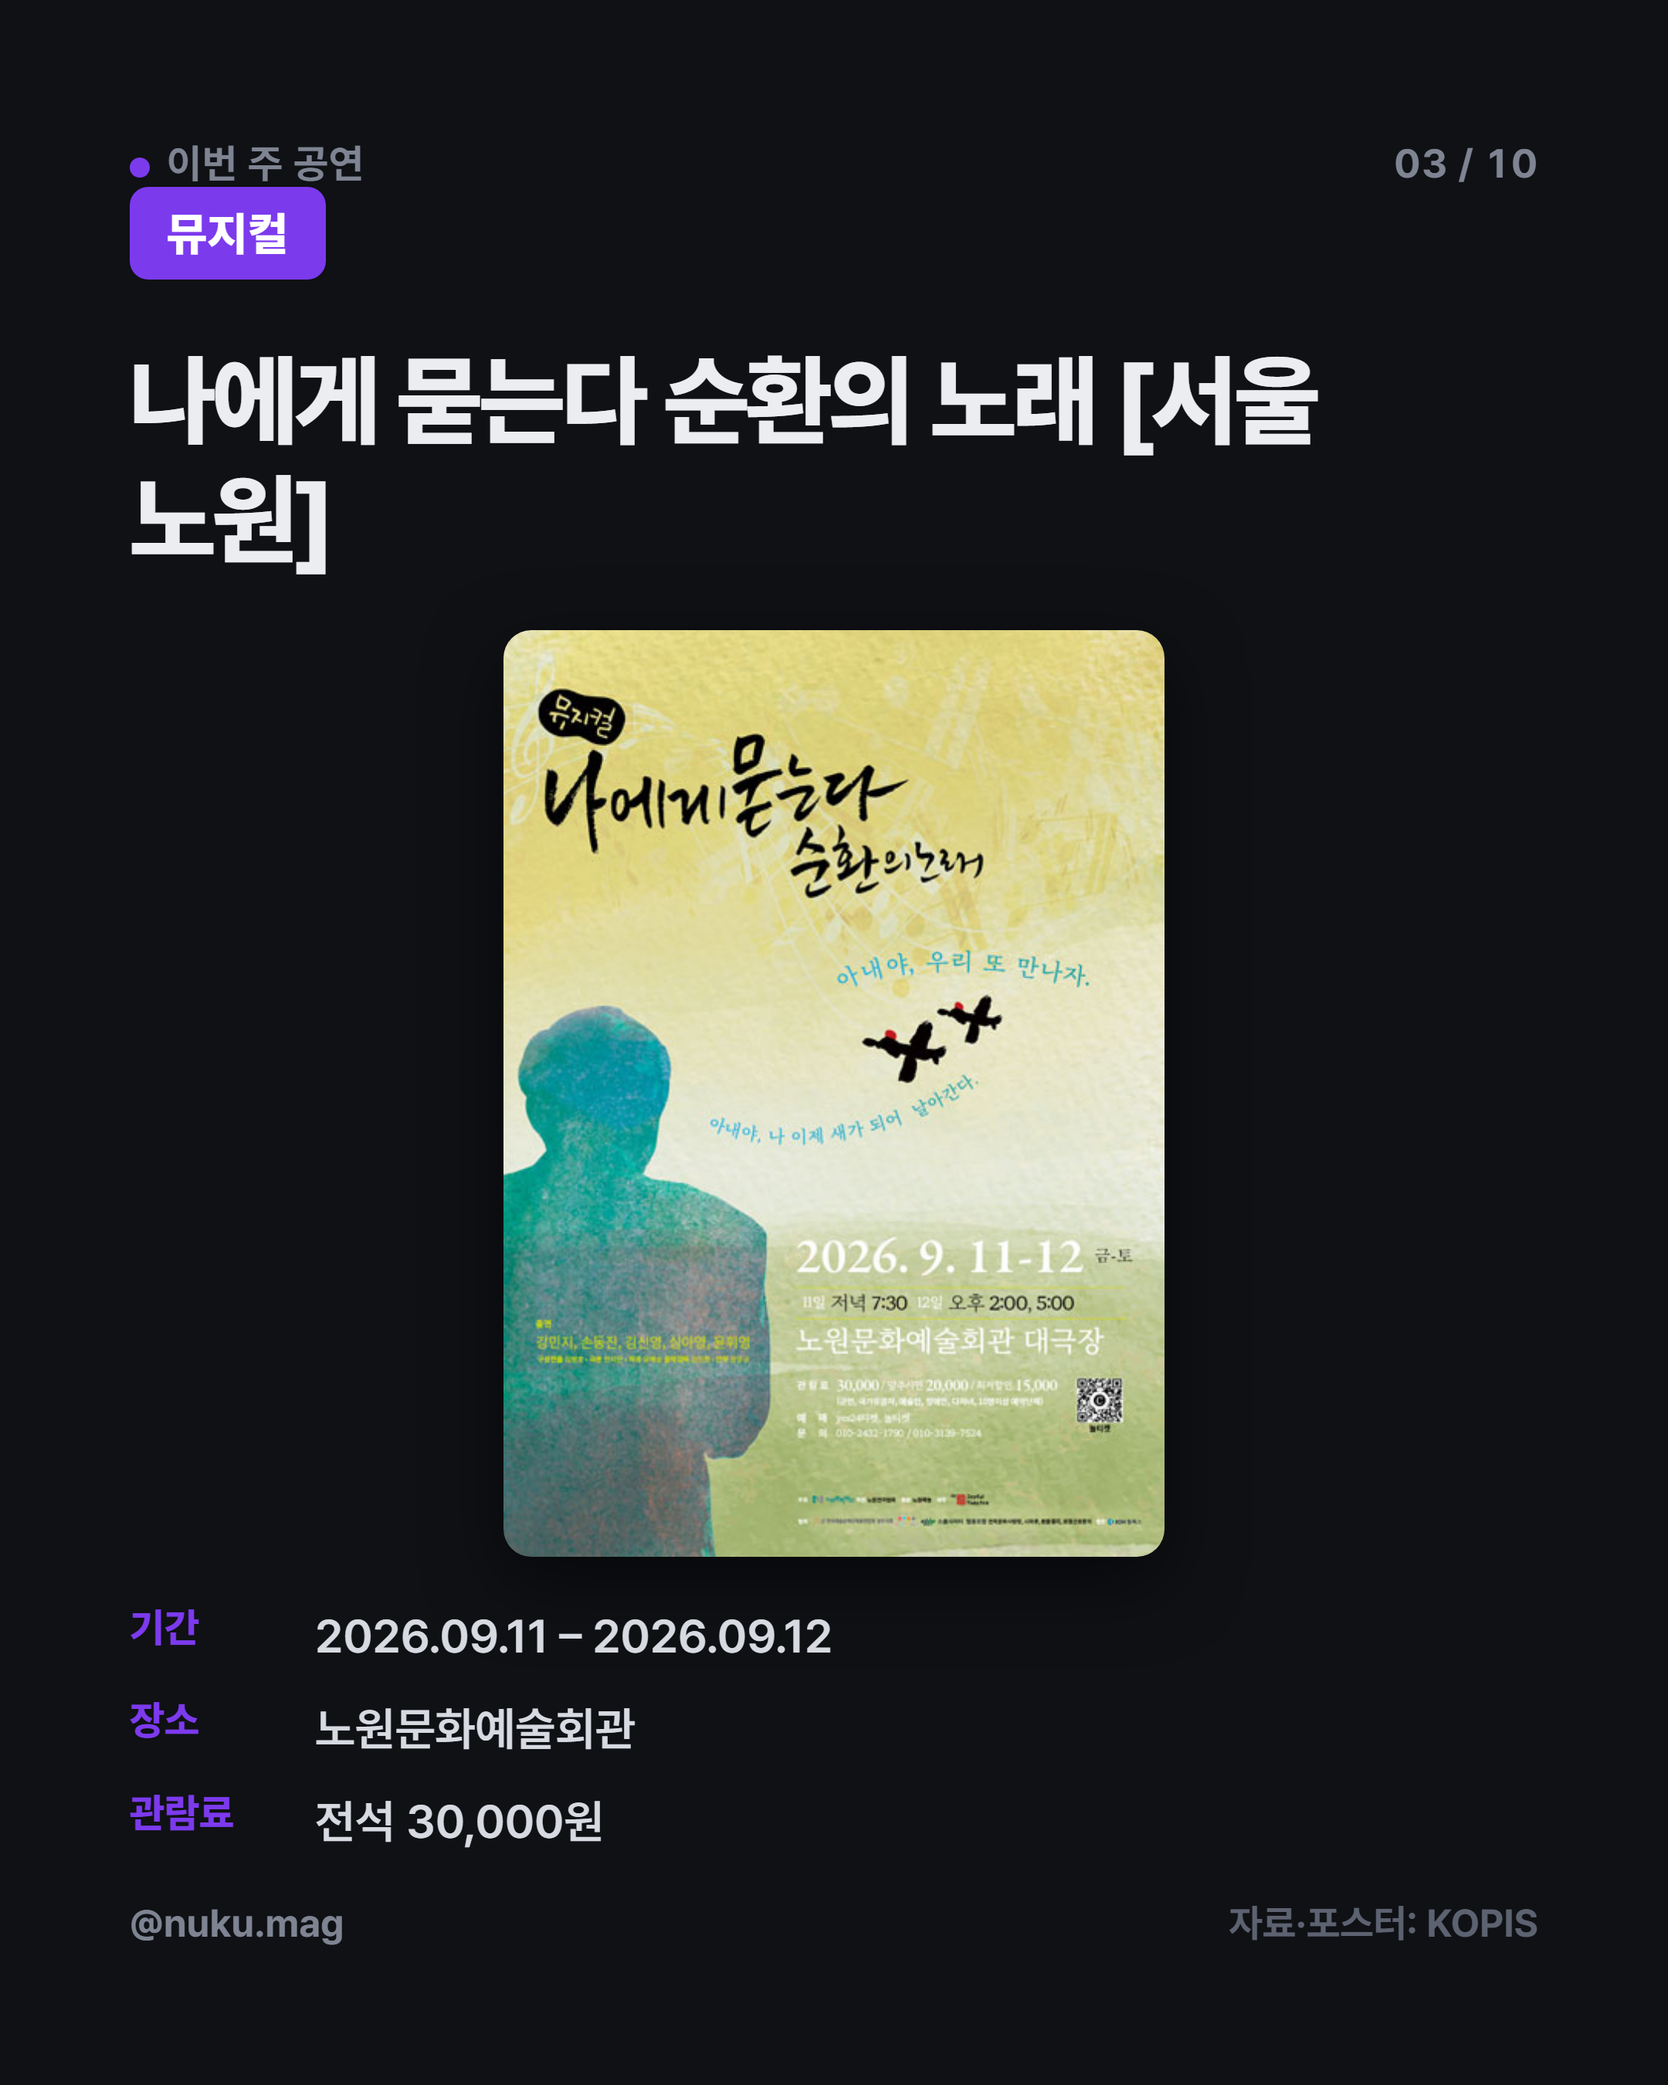
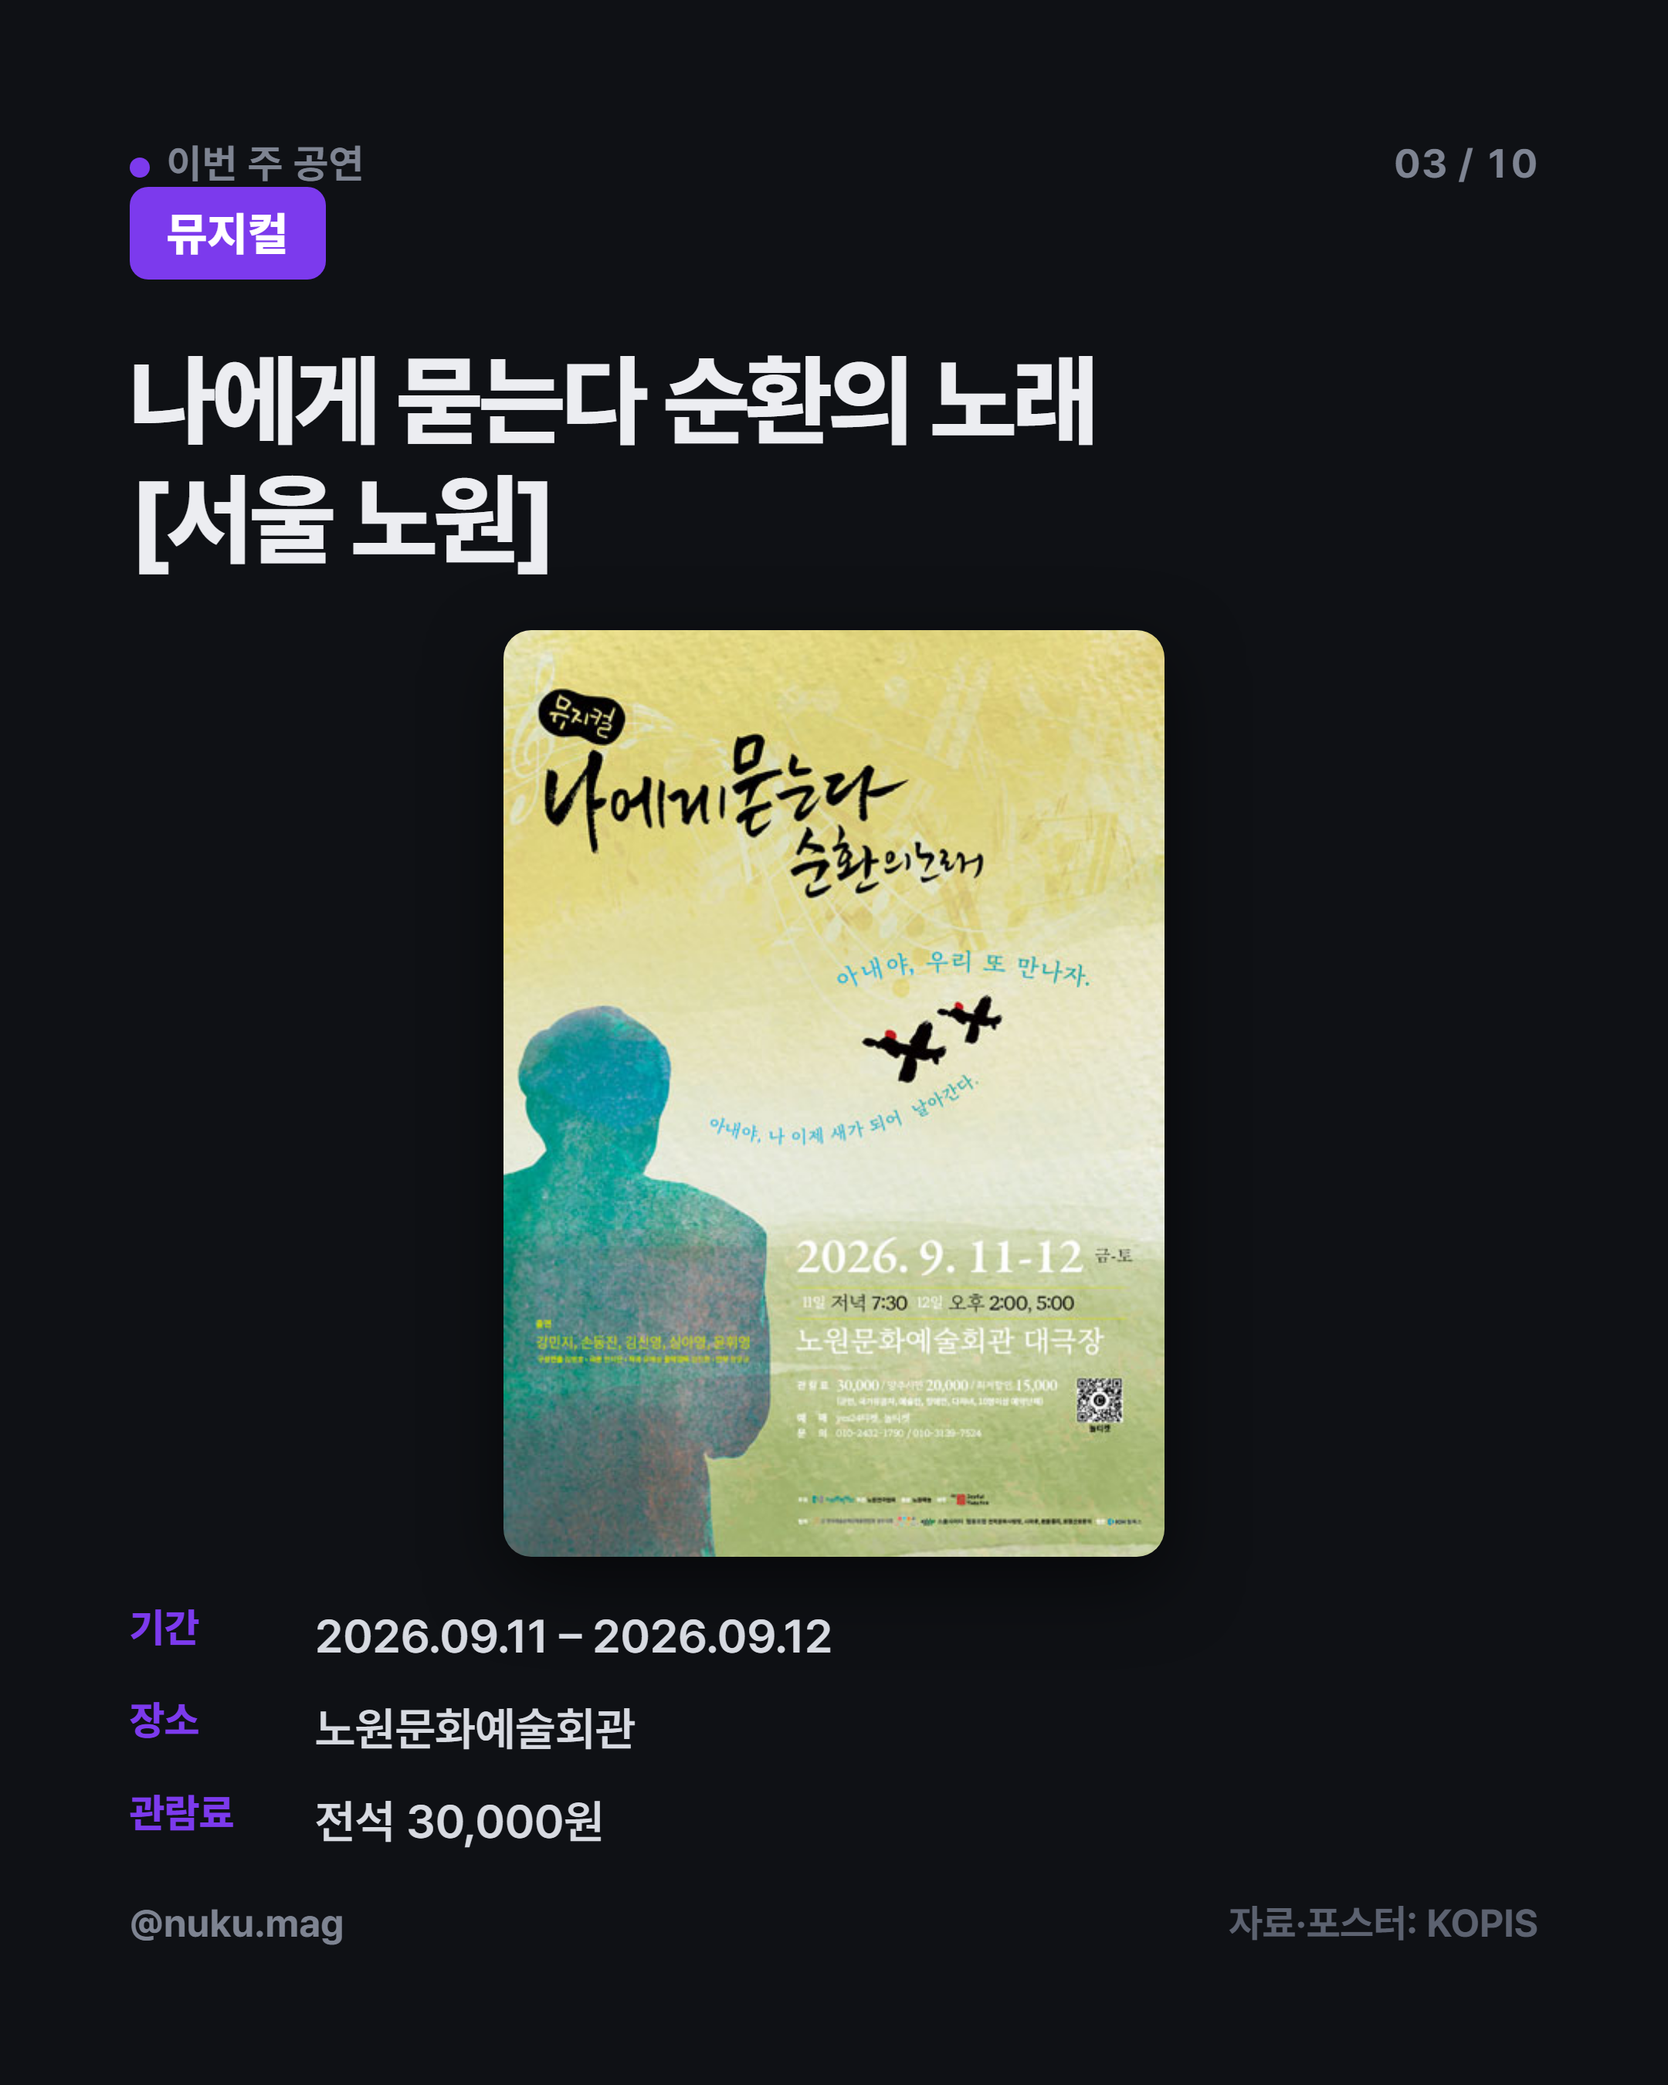
17 공연소식 — 검수 후 표기 교정 (제목 태그 줄바꿈, 전석 무료 띄어쓰기)
KOPIS 상세 API로 8편 전부 재대조: 제목·관람료·기간·장소 원문과 일치, 잘린 내용 없음.

_gen_concert.py 두 가지 교정(스크립트는 이 저장소 밖):
- 제목 끝 [지역] 태그를 nowrap으로 묶음. card03이 "[서울 / 노원]"으로 갈라져 있었다.
- KOPIS가 "전석무료"로 붙여 보내는 값을 "전석 무료"로 띄움.
  유료편은 "전석 30,000원"이라 한 덱 안에서 표기가 어긋났다(card05·card08).

Claude-Session: https://claude.ai/code/session_012SnQWM2LTjB5DNHcX22Fig

Changed region(s): [[0.062, 0.2178, 0.3412, 0.28], [0.6514, 0.1556, 0.8065, 0.2178]]

diff --git a/17_공연소식/card02.html b/17_공연소식/card02.html
@@ -42,7 +42,7 @@ body{font-family:'Pretendard','Noto Sans KR',sans-serif;background:#0F1115;color
 .cl-handle{font-size:46px;font-weight:800;color:#ECEDF1;margin-top:60px;}
 .cl-handle .dot{width:18px;height:18px;border-radius:50%;background:#0273FF;display:inline-block;margin-right:14px;}
 em{font-style:normal;color:#4AA0FF;}
-</style></head><body><div class="frame" style="--ac:#0273FF"><div class="top"><span><span class="dot"></span>이번 주 공연</span><span class="num">02 / 10</span></div><div class="body"><span class="chip">연극</span><div class="title fit" data-fith="150" data-fitmax="68">발인 [대학로]</div><div class="posterwrap"><img class="poster" src="http://www.kopis.or.kr/upload/pfmPoster/PF_PF300243_260907_123203.gif" alt=""></div><div class="rows compact"><div class="row"><div class="k">기간</div><div class="v">2026.09.09 – 2026.09.13</div></div><div class="row"><div class="k">장소</div><div class="v">제이원 씨어터 (구. 서완소극장, 구. 씨어터고리)</div></div><div class="row"><div class="k">관람료</div><div class="v">전석 30,000원</div></div></div></div><div class="bot"><span><span class="dot"></span>@nuku.mag</span><span class="src">자료·포스터: KOPIS</span></div></div><script>
+</style></head><body><div class="frame" style="--ac:#0273FF"><div class="top"><span><span class="dot"></span>이번 주 공연</span><span class="num">02 / 10</span></div><div class="body"><span class="chip">연극</span><div class="title fit" data-fith="150" data-fitmax="68">발인 <span style="white-space:nowrap">[대학로]</span></div><div class="posterwrap"><img class="poster" src="http://www.kopis.or.kr/upload/pfmPoster/PF_PF300243_260907_123203.gif" alt=""></div><div class="rows compact"><div class="row"><div class="k">기간</div><div class="v">2026.09.09 – 2026.09.13</div></div><div class="row"><div class="k">장소</div><div class="v">제이원 씨어터 (구. 서완소극장, 구. 씨어터고리)</div></div><div class="row"><div class="k">관람료</div><div class="v">전석 30,000원</div></div></div></div><div class="bot"><span><span class="dot"></span>@nuku.mag</span><span class="src">자료·포스터: KOPIS</span></div></div><script>
 (function(){function fit(el){var maxH=parseFloat(el.dataset.fith)||430,maxF=parseFloat(el.dataset.fitmax)||118,
 minF=44,lo=minF,hi=maxF,best=minF;for(var i=0;i<26;i++){var mid=(lo+hi)/2;el.style.fontSize=mid+'px';
 if(el.scrollHeight<=maxH+0.5&&el.scrollWidth<=el.clientWidth+1){best=mid;lo=mid;}else{hi=mid;}}

diff --git a/17_공연소식/card03.html b/17_공연소식/card03.html
@@ -42,7 +42,7 @@ body{font-family:'Pretendard','Noto Sans KR',sans-serif;background:#0F1115;color
 .cl-handle{font-size:46px;font-weight:800;color:#ECEDF1;margin-top:60px;}
 .cl-handle .dot{width:18px;height:18px;border-radius:50%;background:#0273FF;display:inline-block;margin-right:14px;}
 em{font-style:normal;color:#4AA0FF;}
-</style></head><body><div class="frame" style="--ac:#7C3AED"><div class="top"><span><span class="dot"></span>이번 주 공연</span><span class="num">03 / 10</span></div><div class="body"><span class="chip">뮤지컬</span><div class="title fit" data-fith="150" data-fitmax="68">나에게 묻는다 순환의 노래 [서울 노원]</div><div class="posterwrap"><img class="poster" src="http://www.kopis.or.kr/upload/pfmPoster/PF_PF299378_260826_104516.jpg" alt=""></div><div class="rows compact"><div class="row"><div class="k">기간</div><div class="v">2026.09.11 – 2026.09.12</div></div><div class="row"><div class="k">장소</div><div class="v">노원문화예술회관</div></div><div class="row"><div class="k">관람료</div><div class="v">전석 30,000원</div></div></div></div><div class="bot"><span><span class="dot"></span>@nuku.mag</span><span class="src">자료·포스터: KOPIS</span></div></div><script>
+</style></head><body><div class="frame" style="--ac:#7C3AED"><div class="top"><span><span class="dot"></span>이번 주 공연</span><span class="num">03 / 10</span></div><div class="body"><span class="chip">뮤지컬</span><div class="title fit" data-fith="150" data-fitmax="68">나에게 묻는다 순환의 노래 <span style="white-space:nowrap">[서울 노원]</span></div><div class="posterwrap"><img class="poster" src="http://www.kopis.or.kr/upload/pfmPoster/PF_PF299378_260826_104516.jpg" alt=""></div><div class="rows compact"><div class="row"><div class="k">기간</div><div class="v">2026.09.11 – 2026.09.12</div></div><div class="row"><div class="k">장소</div><div class="v">노원문화예술회관</div></div><div class="row"><div class="k">관람료</div><div class="v">전석 30,000원</div></div></div></div><div class="bot"><span><span class="dot"></span>@nuku.mag</span><span class="src">자료·포스터: KOPIS</span></div></div><script>
 (function(){function fit(el){var maxH=parseFloat(el.dataset.fith)||430,maxF=parseFloat(el.dataset.fitmax)||118,
 minF=44,lo=minF,hi=maxF,best=minF;for(var i=0;i<26;i++){var mid=(lo+hi)/2;el.style.fontSize=mid+'px';
 if(el.scrollHeight<=maxH+0.5&&el.scrollWidth<=el.clientWidth+1){best=mid;lo=mid;}else{hi=mid;}}

diff --git a/17_공연소식/card07.html b/17_공연소식/card07.html
@@ -42,7 +42,7 @@ body{font-family:'Pretendard','Noto Sans KR',sans-serif;background:#0F1115;color
 .cl-handle{font-size:46px;font-weight:800;color:#ECEDF1;margin-top:60px;}
 .cl-handle .dot{width:18px;height:18px;border-radius:50%;background:#0273FF;display:inline-block;margin-right:14px;}
 em{font-style:normal;color:#4AA0FF;}
-</style></head><body><div class="frame" style="--ac:#15803D"><div class="top"><span><span class="dot"></span>이번 주 공연</span><span class="num">07 / 10</span></div><div class="body"><span class="chip">한국음악(국악)</span><div class="title fit" data-fith="150" data-fitmax="68">달빛 품은 가로등 [대학로]</div><div class="posterwrap"><img class="poster" src="http://www.kopis.or.kr/upload/pfmPoster/PF_PF298512_260814_105116.jpg" alt=""></div><div class="rows compact"><div class="row"><div class="k">기간</div><div class="v">2026.09.11 – 2026.09.13</div></div><div class="row"><div class="k">장소</div><div class="v">아르코 꿈밭극장</div></div><div class="row"><div class="k">관람료</div><div class="v">전석 40,000원</div></div></div></div><div class="bot"><span><span class="dot"></span>@nuku.mag</span><span class="src">자료·포스터: KOPIS</span></div></div><script>
+</style></head><body><div class="frame" style="--ac:#15803D"><div class="top"><span><span class="dot"></span>이번 주 공연</span><span class="num">07 / 10</span></div><div class="body"><span class="chip">한국음악(국악)</span><div class="title fit" data-fith="150" data-fitmax="68">달빛 품은 가로등 <span style="white-space:nowrap">[대학로]</span></div><div class="posterwrap"><img class="poster" src="http://www.kopis.or.kr/upload/pfmPoster/PF_PF298512_260814_105116.jpg" alt=""></div><div class="rows compact"><div class="row"><div class="k">기간</div><div class="v">2026.09.11 – 2026.09.13</div></div><div class="row"><div class="k">장소</div><div class="v">아르코 꿈밭극장</div></div><div class="row"><div class="k">관람료</div><div class="v">전석 40,000원</div></div></div></div><div class="bot"><span><span class="dot"></span>@nuku.mag</span><span class="src">자료·포스터: KOPIS</span></div></div><script>
 (function(){function fit(el){var maxH=parseFloat(el.dataset.fith)||430,maxF=parseFloat(el.dataset.fitmax)||118,
 minF=44,lo=minF,hi=maxF,best=minF;for(var i=0;i<26;i++){var mid=(lo+hi)/2;el.style.fontSize=mid+'px';
 if(el.scrollHeight<=maxH+0.5&&el.scrollWidth<=el.clientWidth+1){best=mid;lo=mid;}else{hi=mid;}}

diff --git a/17_공연소식/card08.html b/17_공연소식/card08.html
@@ -42,7 +42,7 @@ body{font-family:'Pretendard','Noto Sans KR',sans-serif;background:#0F1115;color
 .cl-handle{font-size:46px;font-weight:800;color:#ECEDF1;margin-top:60px;}
 .cl-handle .dot{width:18px;height:18px;border-radius:50%;background:#0273FF;display:inline-block;margin-right:14px;}
 em{font-style:normal;color:#4AA0FF;}
-</style></head><body><div class="frame" style="--ac:#475569"><div class="top"><span><span class="dot"></span>이번 주 공연</span><span class="num">08 / 10</span></div><div class="body"><span class="chip">복합</span><div class="title fit" data-fith="150" data-fitmax="68">문학주간, 곁눈질 [아르코꿈밭극장]</div><div class="posterwrap"><img class="poster" src="http://www.kopis.or.kr/upload/pfmPoster/PF_PF300224_260907_111143.jpg" alt=""></div><div class="rows compact"><div class="row"><div class="k">기간</div><div class="v">2026.09.16 – 2026.09.20</div></div><div class="row"><div class="k">장소</div><div class="v">아르코 꿈밭극장</div></div><div class="row"><div class="k">관람료</div><div class="v">전석무료</div></div></div></div><div class="bot"><span><span class="dot"></span>@nuku.mag</span><span class="src">자료·포스터: KOPIS</span></div></div><script>
+</style></head><body><div class="frame" style="--ac:#475569"><div class="top"><span><span class="dot"></span>이번 주 공연</span><span class="num">08 / 10</span></div><div class="body"><span class="chip">복합</span><div class="title fit" data-fith="150" data-fitmax="68">문학주간, 곁눈질 <span style="white-space:nowrap">[아르코꿈밭극장]</span></div><div class="posterwrap"><img class="poster" src="http://www.kopis.or.kr/upload/pfmPoster/PF_PF300224_260907_111143.jpg" alt=""></div><div class="rows compact"><div class="row"><div class="k">기간</div><div class="v">2026.09.16 – 2026.09.20</div></div><div class="row"><div class="k">장소</div><div class="v">아르코 꿈밭극장</div></div><div class="row"><div class="k">관람료</div><div class="v">전석 무료</div></div></div></div><div class="bot"><span><span class="dot"></span>@nuku.mag</span><span class="src">자료·포스터: KOPIS</span></div></div><script>
 (function(){function fit(el){var maxH=parseFloat(el.dataset.fith)||430,maxF=parseFloat(el.dataset.fitmax)||118,
 minF=44,lo=minF,hi=maxF,best=minF;for(var i=0;i<26;i++){var mid=(lo+hi)/2;el.style.fontSize=mid+'px';
 if(el.scrollHeight<=maxH+0.5&&el.scrollWidth<=el.clientWidth+1){best=mid;lo=mid;}else{hi=mid;}}

diff --git a/17_공연소식/card05.html b/17_공연소식/card05.html
@@ -42,7 +42,7 @@ body{font-family:'Pretendard','Noto Sans KR',sans-serif;background:#0F1115;color
 .cl-handle{font-size:46px;font-weight:800;color:#ECEDF1;margin-top:60px;}
 .cl-handle .dot{width:18px;height:18px;border-radius:50%;background:#0273FF;display:inline-block;margin-right:14px;}
 em{font-style:normal;color:#4AA0FF;}
-</style></head><body><div class="frame" style="--ac:#E11D48"><div class="top"><span><span class="dot"></span>이번 주 공연</span><span class="num">05 / 10</span></div><div class="body"><span class="chip">대중음악</span><div class="title fit" data-fith="150" data-fitmax="68">뮤즈온 페스티벌</div><div class="posterwrap"><img class="poster" src="http://www.kopis.or.kr/upload/pfmPoster/PF_PF298758_260818_161206.png" alt=""></div><div class="rows compact"><div class="row"><div class="k">기간</div><div class="v">2026.09.09 – 2026.09.13</div></div><div class="row"><div class="k">장소</div><div class="v">무신사 개러지 (구. 왓챠홀)</div></div><div class="row"><div class="k">관람료</div><div class="v">전석무료</div></div></div></div><div class="bot"><span><span class="dot"></span>@nuku.mag</span><span class="src">자료·포스터: KOPIS</span></div></div><script>
+</style></head><body><div class="frame" style="--ac:#E11D48"><div class="top"><span><span class="dot"></span>이번 주 공연</span><span class="num">05 / 10</span></div><div class="body"><span class="chip">대중음악</span><div class="title fit" data-fith="150" data-fitmax="68">뮤즈온 페스티벌</div><div class="posterwrap"><img class="poster" src="http://www.kopis.or.kr/upload/pfmPoster/PF_PF298758_260818_161206.png" alt=""></div><div class="rows compact"><div class="row"><div class="k">기간</div><div class="v">2026.09.09 – 2026.09.13</div></div><div class="row"><div class="k">장소</div><div class="v">무신사 개러지 (구. 왓챠홀)</div></div><div class="row"><div class="k">관람료</div><div class="v">전석 무료</div></div></div></div><div class="bot"><span><span class="dot"></span>@nuku.mag</span><span class="src">자료·포스터: KOPIS</span></div></div><script>
 (function(){function fit(el){var maxH=parseFloat(el.dataset.fith)||430,maxF=parseFloat(el.dataset.fitmax)||118,
 minF=44,lo=minF,hi=maxF,best=minF;for(var i=0;i<26;i++){var mid=(lo+hi)/2;el.style.fontSize=mid+'px';
 if(el.scrollHeight<=maxH+0.5&&el.scrollWidth<=el.clientWidth+1){best=mid;lo=mid;}else{hi=mid;}}
